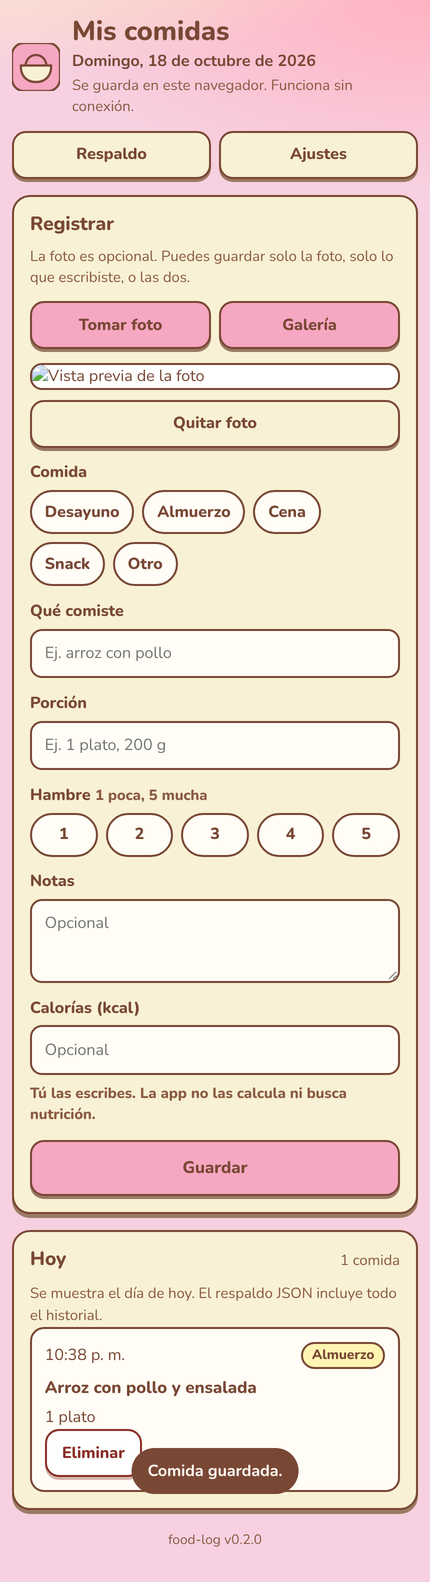
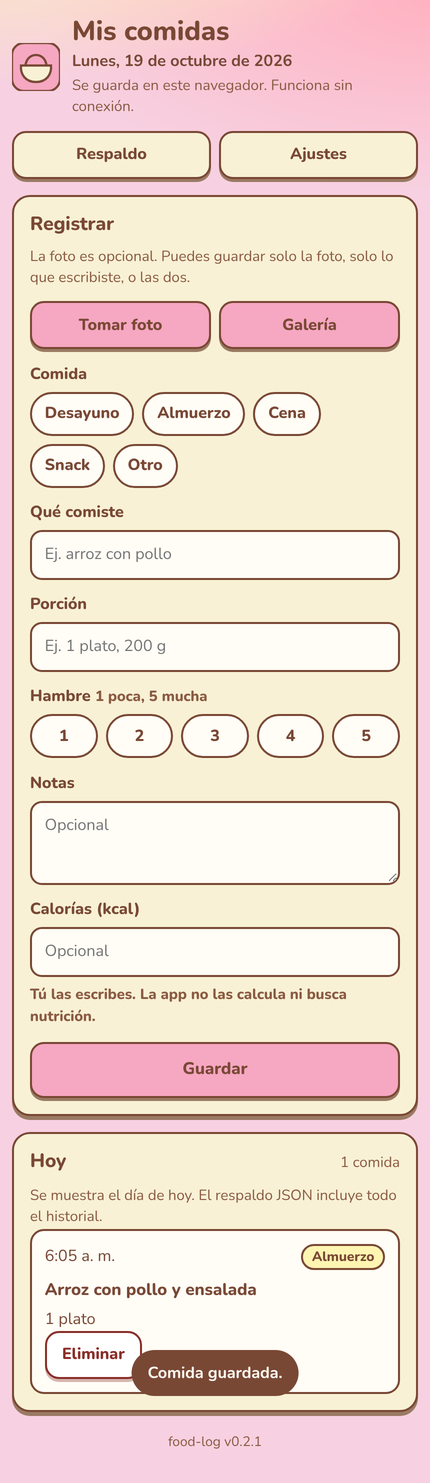
Ocultar la vista previa de la foto cuando no hay foto

diff --git a/css/styles.css b/css/styles.css
@@ -213,6 +213,8 @@ textarea { min-height: 84px; resize: vertical; }
   gap: 0.6rem;
 }
 
+.preview[hidden] { display: none; }
+
 .preview img, .entry-photo {
   width: 100%;
   max-height: 240px;
